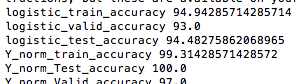
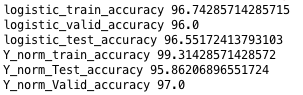
revised part2.1.3
revised part2.1.3

diff --git a/Assignment 2/part2.1.3_adam.py b/Assignment 2/part2.1.3_adam.py
@@ -1,0 +1,155 @@
+import numpy as np
+import tensorflow as tf
+import matplotlib.pyplot as plt
+from random import *
+
+#Sample code for loading data
+
+def Load_data():
+    with np.load("notMNIST.npz") as data :
+        Data, Target = data ["images"], data["labels"]
+        posClass = 2
+        negClass = 9
+        dataIndx = (Target==posClass) + (Target==negClass)
+
+        Data = Data[dataIndx]/255.
+        Target = Target[dataIndx].reshape(-1, 1)
+        Target[Target==posClass] = 1
+        Target[Target==negClass] = 0
+        np.random.seed(521)
+        randIndx = np.arange(len(Data))
+        np.random.shuffle(randIndx)
+        Data, Target = Data[randIndx], Target[randIndx]
+        trainData, trainTarget = Data[:3500], Target[:3500]
+        validData, validTarget = Data[3500:3600], Target[3500:3600]
+        testData, testTarget = Data[3600:], Target[3600:]
+        #trainData is a tuple of size 3500
+        return trainData,trainTarget,validData,validTarget,testData,testTarget
+
+def build_graph():
+        W = tf.Variable(tf.truncated_normal(shape=[784,1], stddev=0.5), name='weights') #not too sure about stddev
+        b = tf.Variable(0.0, name='biases')
+        X = tf.placeholder(tf.float32, [None, 784], name='input_x')
+        y_target = tf.placeholder(tf.float32, [None,1], name='target_y')
+        learn_rate=tf.placeholder(tf.float32,shape=[],name='learn_rate')
+        weight_decay = tf.placeholder(tf.float32,shape=[],name='weight_decay')
+
+        # Graph definition
+        y_predicted = tf.matmul(X,W) + b
+
+        #crossEntropyLoss = tf.reduce_sum(-y_target*log(y_predicted)-(1-y_target)*log(1-y_predicted), 1)  + tf.divide(weight_decay,2)*tf.squeeze(tf.matmul(W,W,transpose_a=True))
+        crossEntropyLoss = tf.reduce_mean(tf.nn.sigmoid_cross_entropy_with_logits(labels=y_target,logits=y_predicted))
+
+        optimizer = tf.train.GradientDescentOptimizer(learning_rate = learn_rate)
+        train = optimizer.minimize(loss=crossEntropyLoss)
+        return W, b, X, y_target, y_predicted,learn_rate,weight_decay,crossEntropyLoss, train
+
+
+def build_graph_adam():
+    W = tf.Variable(tf.truncated_normal(shape=[784,1], stddev=0.5), name='weights_adam') #not too sure about stddev
+    b = tf.Variable(0.0, name='biases_adam')
+    X = tf.placeholder(tf.float32, [None, 784], name='input_x_adam')
+    y_target = tf.placeholder(tf.float32, [None,1], name='target_y_adam')
+    learn_rate=tf.placeholder(tf.float32,shape=[],name='learn_rate_adam')
+    weight_decay = tf.placeholder(tf.float32,shape=[],name='weight_decay_adam')
+
+    # Graph definition
+    y_predicted = tf.matmul(X,W) + b
+
+    crossEntropyLoss = tf.reduce_mean(tf.nn.sigmoid_cross_entropy_with_logits(labels=y_target,logits=y_predicted))+ tf.divide(weight_decay,2)*tf.squeeze(tf.matmul(W,W,transpose_a=True))
+
+    optimizer = tf.train.AdamOptimizer(learning_rate = learn_rate)
+    train = optimizer.minimize(loss=crossEntropyLoss)
+    return W, b, X, y_target, y_predicted,learn_rate,weight_decay,crossEntropyLoss, train
+
+
+trainData,trainTarget,validData,validTarget,testData,testTarget=Load_data()
+w,b,x,y_target,y_predicted,learn_rate,weight_decay,cross_entropy_loss,train=build_graph()
+w_adam,b_adam,x_adam,y_target_adam,y_predicted_adam,learn_rate_adam,weight_decay_adam,cross_entropy_loss_adam,train_adam=build_graph_adam()
+
+#Reshape the data to N x 784 format
+N=len(trainData)
+trainData = np.reshape(trainData, [N, 28*28])
+validData = np.reshape(validData, [len(validData), 28*28])
+testData = np.reshape(testData, [len(testData), 28*28])
+
+#print(trainTarget)
+init = tf.global_variables_initializer()
+sess = tf.InteractiveSession()
+sess.run(init)
+weightdecay = 0.01
+result=[]
+valid_accuracy_result = []
+valid_error_result = []
+test_accuracy_result = []
+test_error_result = []
+weight_list = []
+bias_list = []
+#valid_mse_list = []
+epochs=0
+iterations = 5000
+num_epochs = int(iterations/7)
+logistic_accuracy_list = []
+linear_accuracy_list = []
+logistic_error_list = []
+linear_error_list =[]
+
+
+
+
+for optimizer in range(0,2):
+    learnrate=0.005
+    for step in range(0,num_epochs):
+        for i in range(0,7):
+            start_index = i* 500
+            minix=trainData[start_index:start_index+500]
+            miniy=trainTarget[start_index:start_index+500]
+            #logistic regression
+            if(optimizer == 0):
+                _, err, currentW, currentb, yhat = sess.run([train, cross_entropy_loss, w, b, y_predicted], feed_dict={x: minix, y_target: miniy,learn_rate:learnrate, weight_decay:weightdecay})
+                #add error and the into a list  here
+                logistic_error_list.append(err)
+                train_accuracy_list = []
+                train_err, train_result = sess.run([cross_entropy_loss,y_predicted],feed_dict={x: trainData, y_target: trainTarget,weight_decay:weightdecay})
+                train_result = sess.run(tf.sigmoid(train_result))
+                for i in range(np.shape(train_result)[0]):
+                    train_accuracy_list.append(trainTarget[i] == (train_result[i]>0.5))
+                logistic_train_accuracy = train_accuracy_list.count(True) / len (train_result) *100
+                logistic_accuracy_list.append(logistic_train_accuracy)
+
+            #linear regression
+            else:
+                _, err, currentW, currentb, yhat = sess.run([train_adam, cross_entropy_loss_adam, w_adam, b_adam, y_predicted_adam], feed_dict={x_adam: minix, y_target_adam: miniy,learn_rate_adam:learnrate, weight_decay_adam:weightdecay})
+                #add error and the into a list  here
+                linear_error_list.append(err)
+                train_accuracy_list = []
+                train_err, train_result = sess.run([cross_entropy_loss,y_predicted],feed_dict={x: trainData, y_target: trainTarget,weight_decay:weightdecay})
+                for i in range(np.shape(train_result)[0]):
+                    train_accuracy_list.append(trainTarget[i] == (train_result[i]>0.5))
+                linear_train_accuracy = train_accuracy_list.count(True) / len (train_result) *100
+                linear_accuracy_list.append(linear_train_accuracy)
+    sess.run(init)
+
+epochs=(len(logistic_error_list))
+#plotting
+
+x = np.arange(epochs)
+
+# plot the cross entropy loss
+line_valid_error = plt.plot(x, logistic_error_list,color='r', label="Logistic Regression Train Data Cross Entropy Error")
+line_test_accuracy = plt.plot(x, linear_error_list,color='b', label="Linear Regression Train Data Cross Entropy Error")
+plt.legend(loc='best', shadow=True, fontsize='small')
+plt.ylabel('Cross Entropy Loss')
+plt.xlabel('Number of Epochs')
+plt.show()
+
+# plot the validation accuracy
+line_valid_accuracy = plt.plot(x, logistic_accuracy_list,color='r', label="Logistic Regression Train Data Set Accuracy")
+line_test_accuracy = plt.plot(x, linear_accuracy_list,color='g', label="Linear Regression Train Data Set Accuracy")
+plt.legend(loc='best', shadow=True, fontsize='small')
+plt.ylabel('Classification Accuracy')
+plt.xlabel('Number of Epochs')
+plt.show()
+
+
+

diff --git a/Assignment 2/part2.1.3.py b/Assignment 2/part2.1.3.py
@@ -145,7 +145,6 @@ for i in range(np.shape(y_norm_train)[0]):
 Y_norm_train_accuracy = ynorm_train_acc.count(True) / len (ynorm_train_acc) *100
 print("Y_norm_train_accuracy "+str(Y_norm_train_accuracy))
 
-#W,X,y_target,y_predicted
 woptimal,x_data,y_data,y_norm_test_reuslt=calculateMSE()
 N=len(testData)
 testData = np.reshape(testData, [N, 28*28])
@@ -155,7 +154,7 @@ y_norm_test=sess.run([y_norm_test_reuslt],feed_dict={x_data:testData, y_data: te
 
 y_norm_test=np.reshape(y_norm_test,[145,1])
 ynorm_Test_acc = []
-for i in range(np.shape(y_norm_test)[1]):
+for i in range(np.shape(y_norm_test)[0]):
     ynorm_Test_acc.append(testTarget[i] == (y_norm_test[i]>0.5))
 Y_norm_Test_accuracy = ynorm_Test_acc.count(True) / len (ynorm_Test_acc) *100
 print("Y_norm_Test_accuracy "+str(Y_norm_Test_accuracy))
